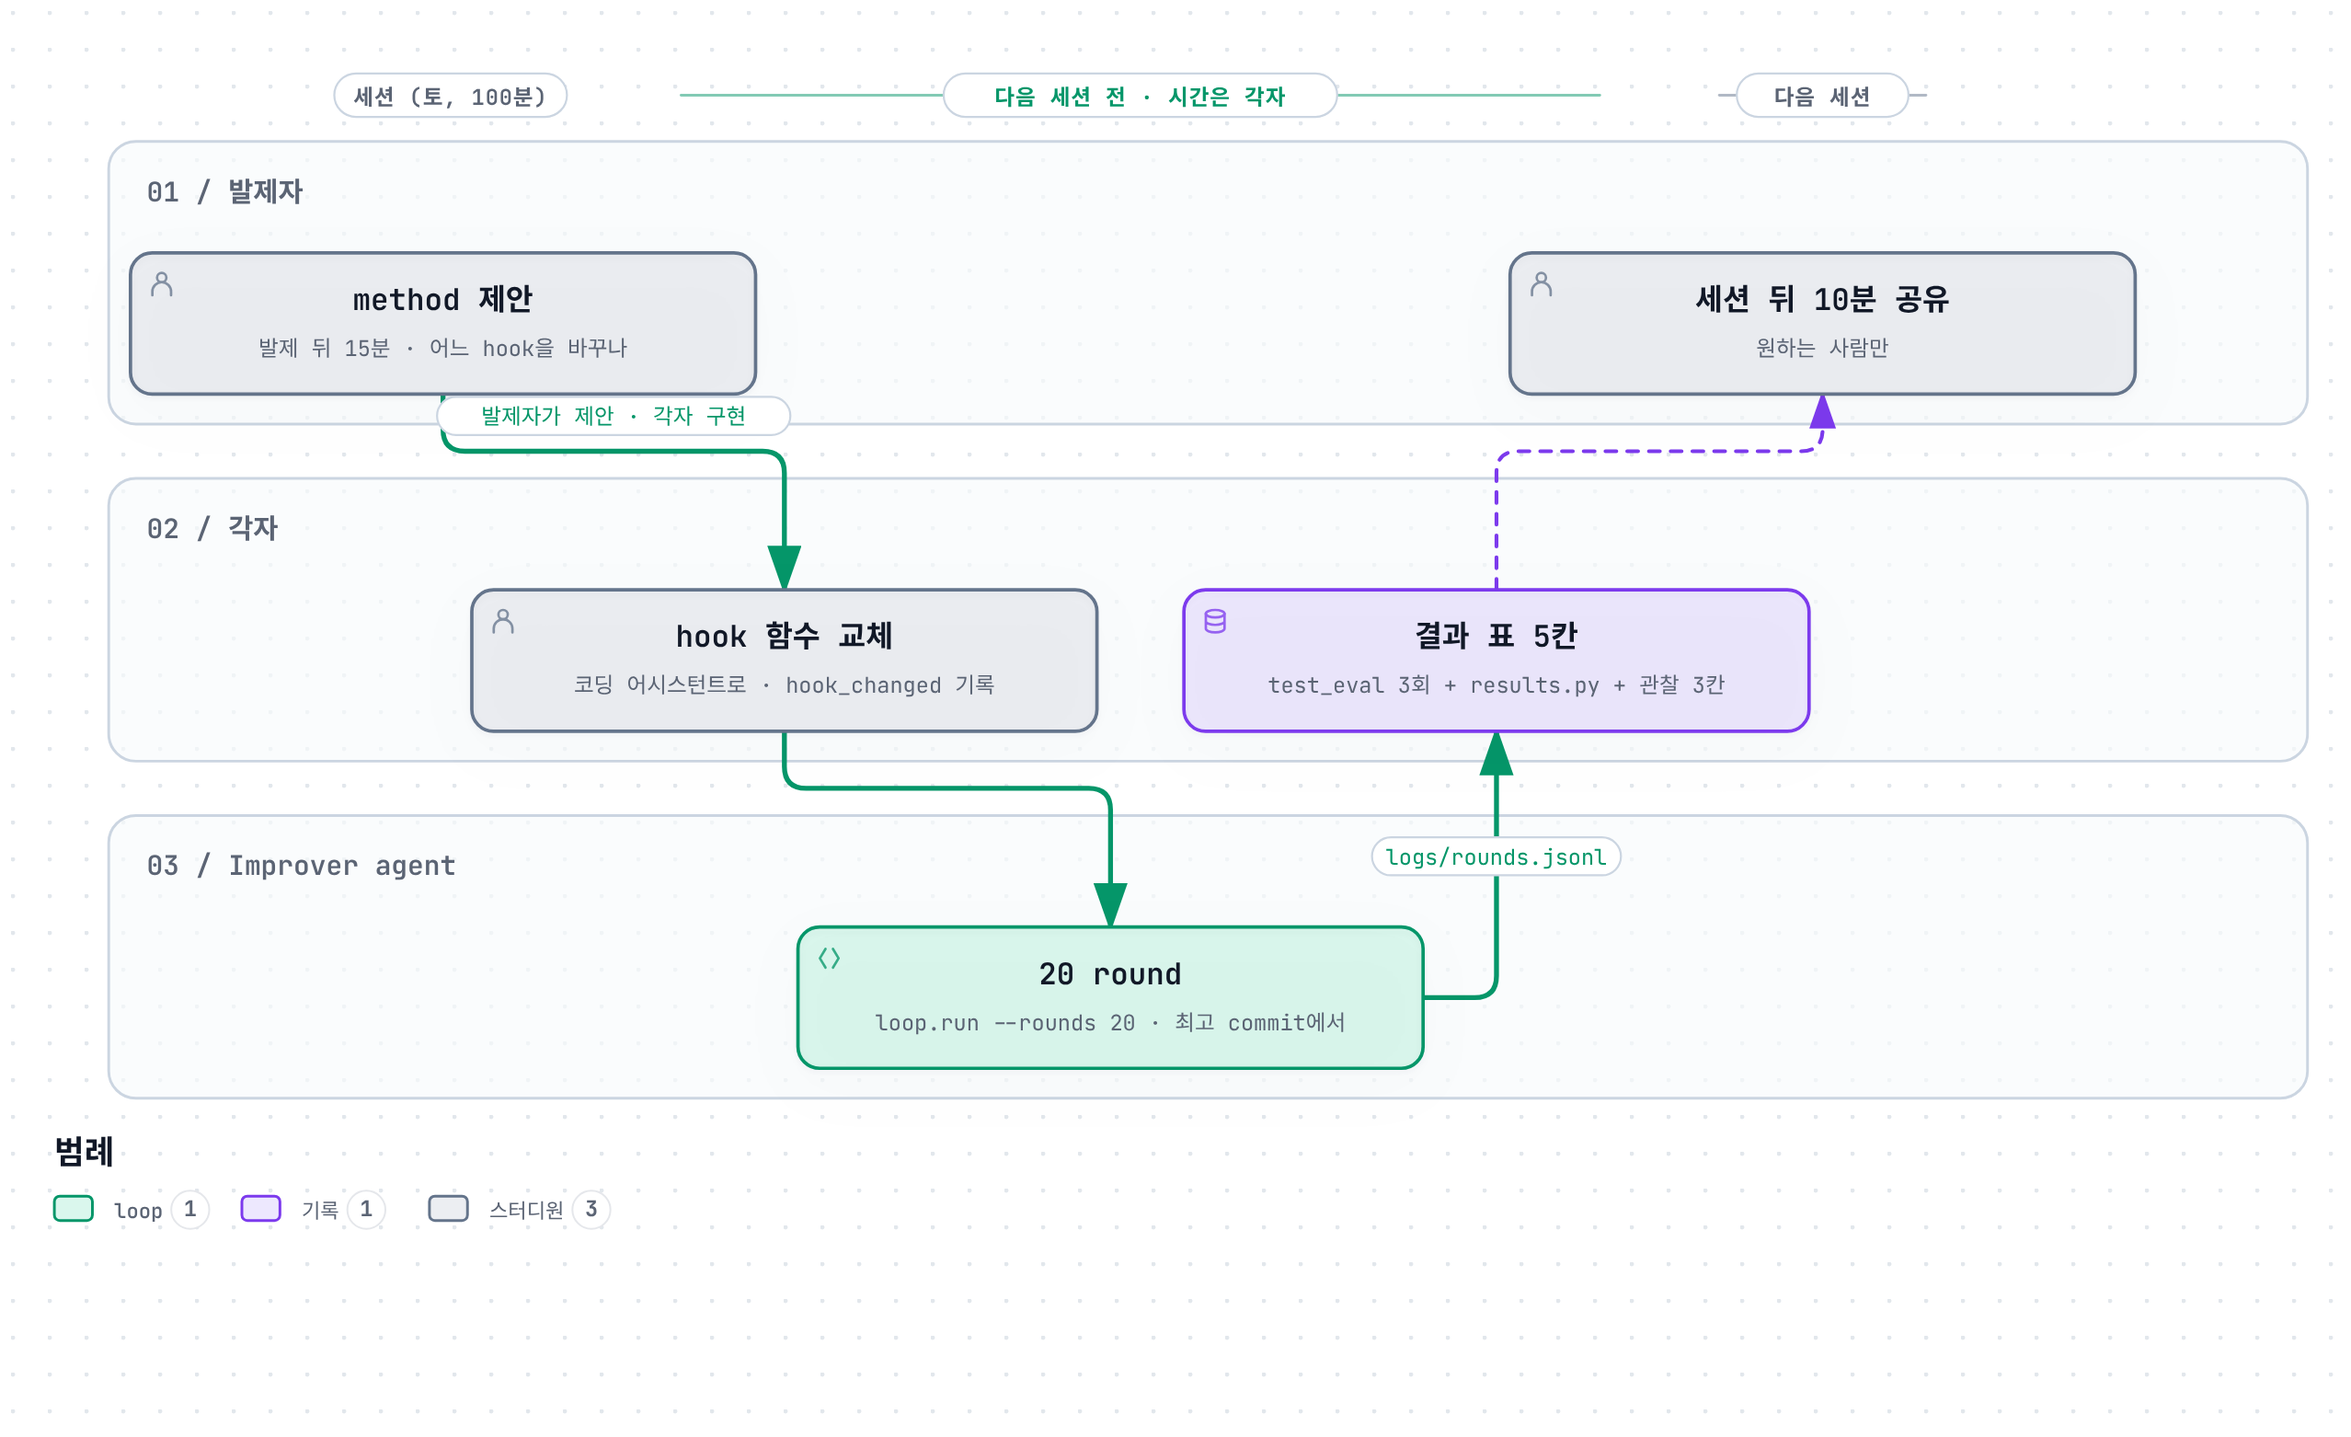
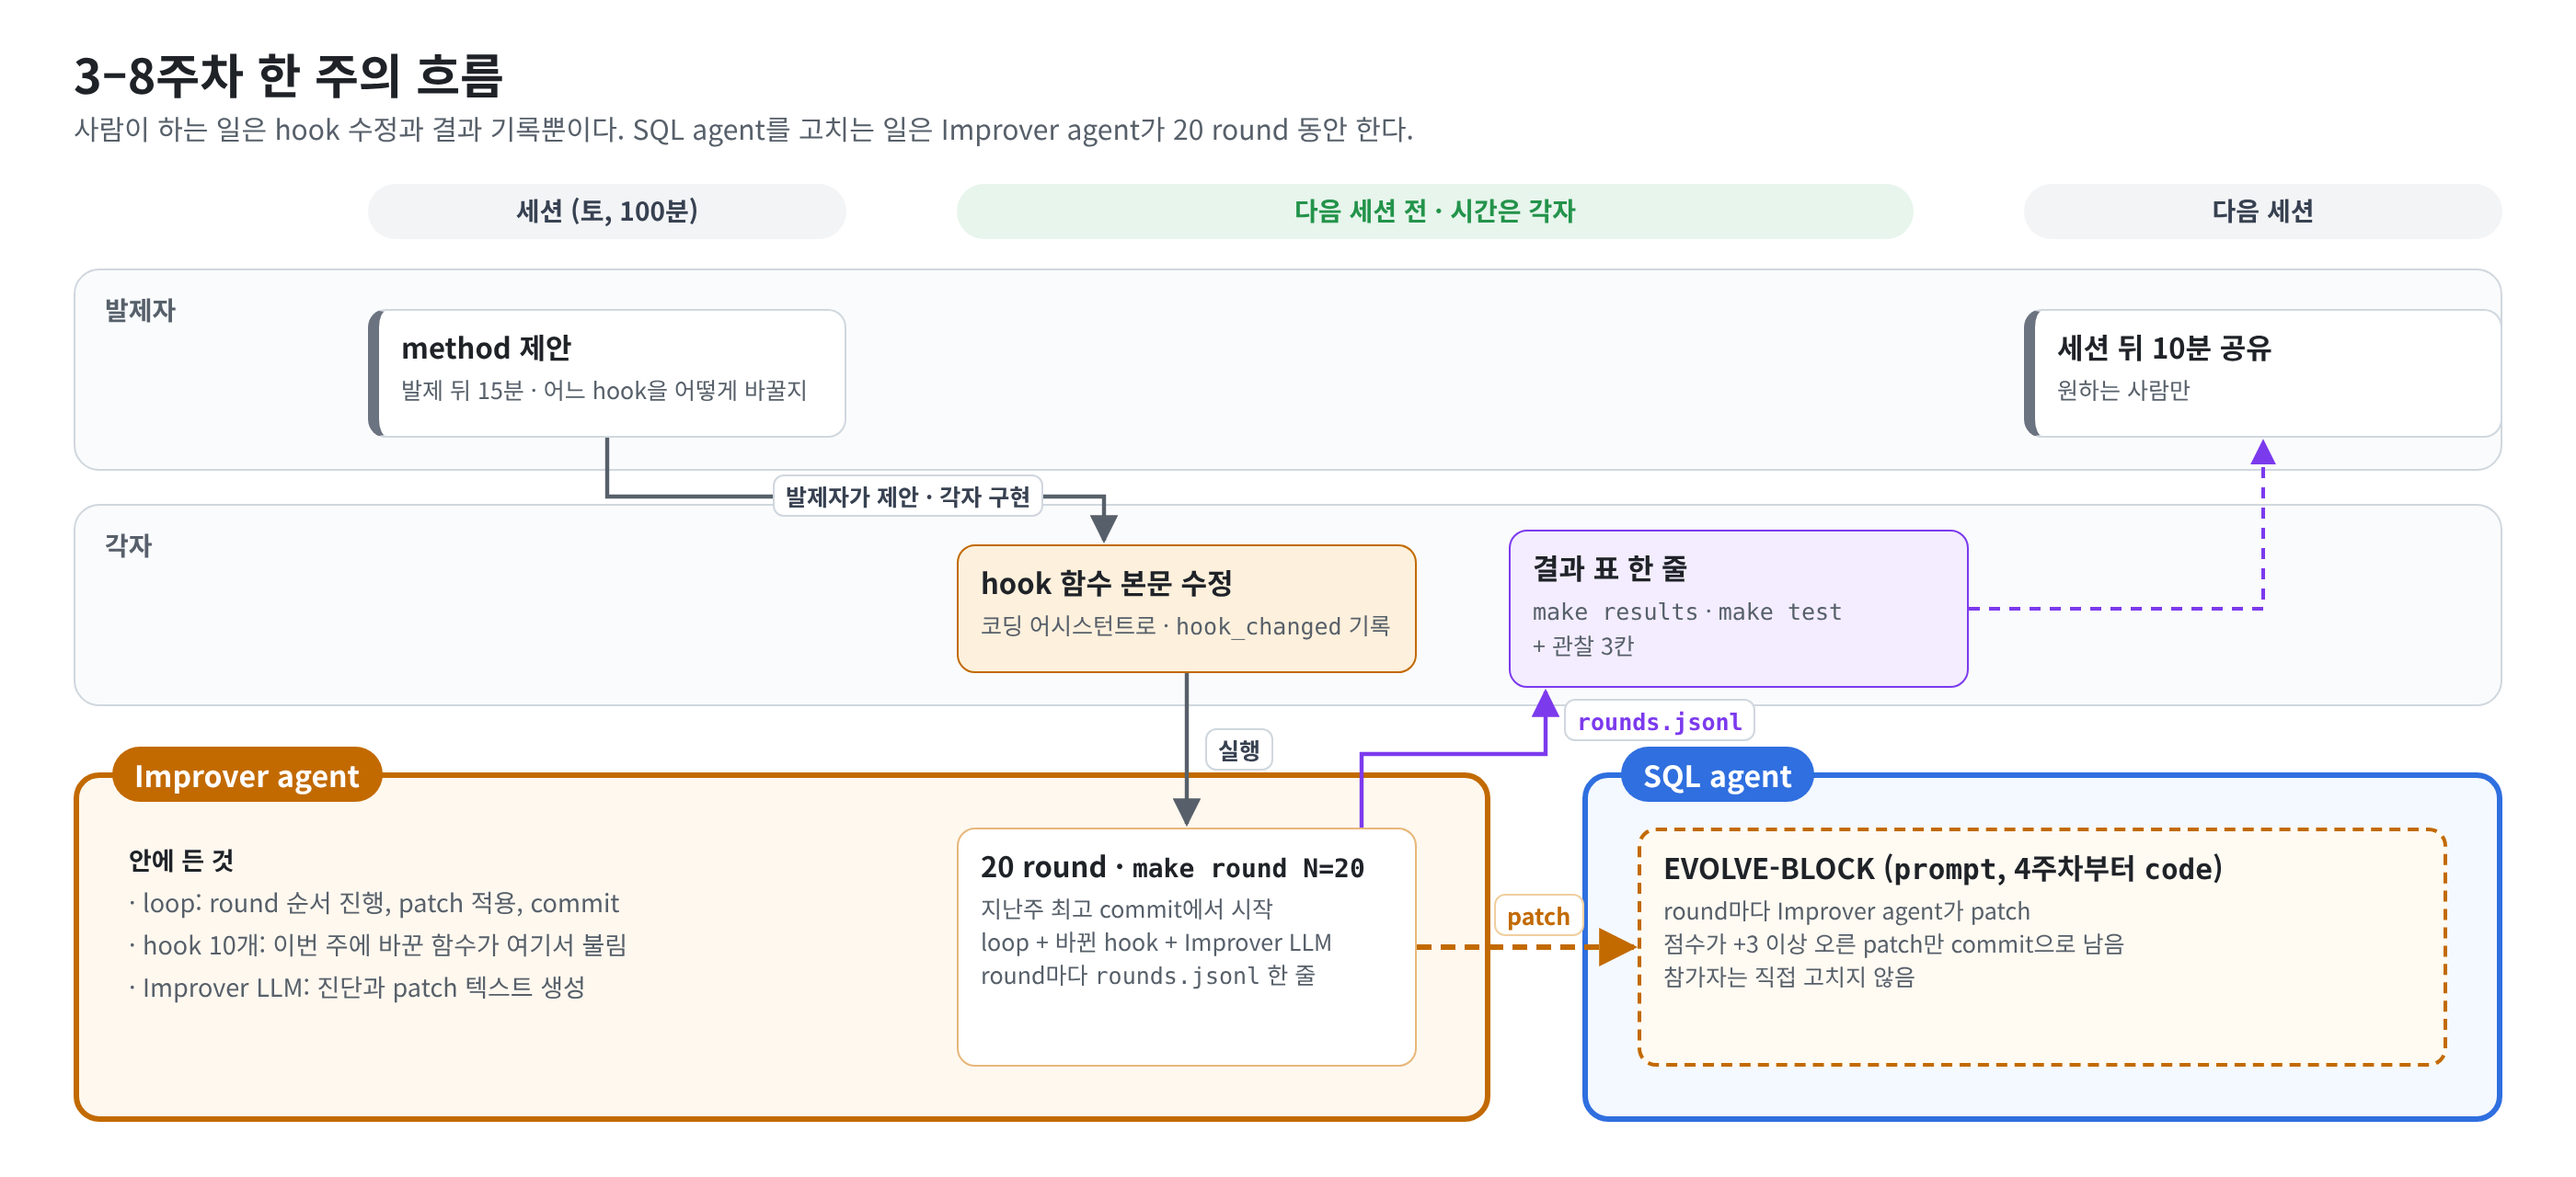
docs: 세 층·한 round·한 주 그림에 Improver agent / SQL agent 경계 표시
Claude-Session: https://claude.ai/code/session_016zuU2mSgMQZFFveCAhWrPT

diff --git a/README.md b/README.md
@@ -111,7 +111,7 @@ loop는 round마다 아래 순서로 돌고, 번호 붙은 곳에서 `hooks/`의
 - `should_stop`이 False면 다음 round의 `begin`으로 돌아간다.
 - hook은 노드 안에서 불리므로, hook만 바꾸는 사람은 LangGraph를 몰라도 된다.
 
-![한 round의 흐름과 hook 10개의 위치](docs/round.png)
+![한 round: Improver agent 안의 순서(hook → loop 단계)와 SQL agent로 넘어가는 지점(① 실행, ④ patch, ⑤ 재실행)](docs/round.png)
 
 ```
 parent = select_parent(archive)                 ① 어느 commit에서 시작하나        기본: 최고 점수 commit
